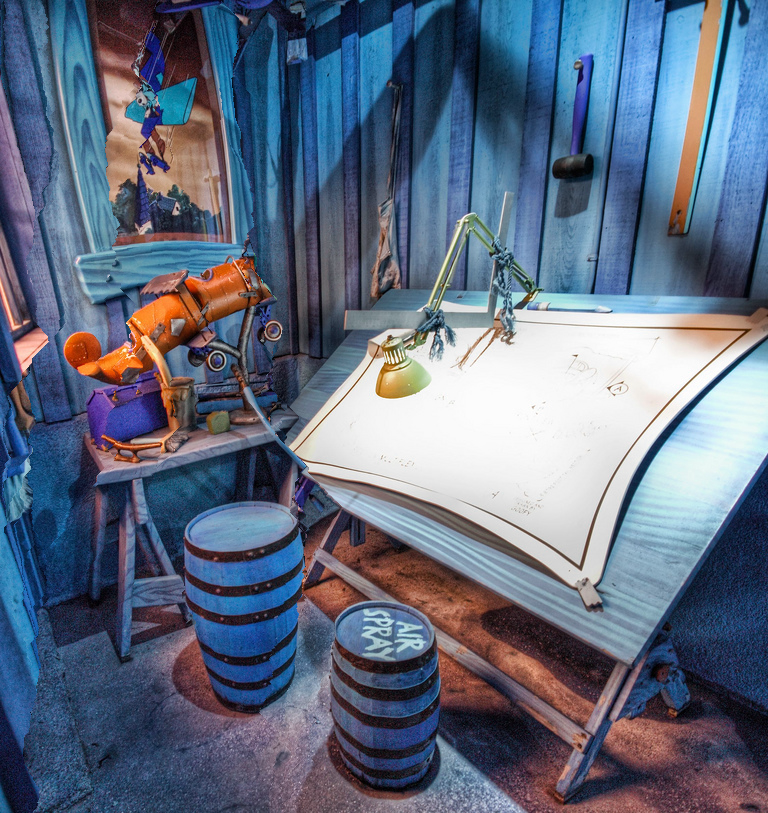
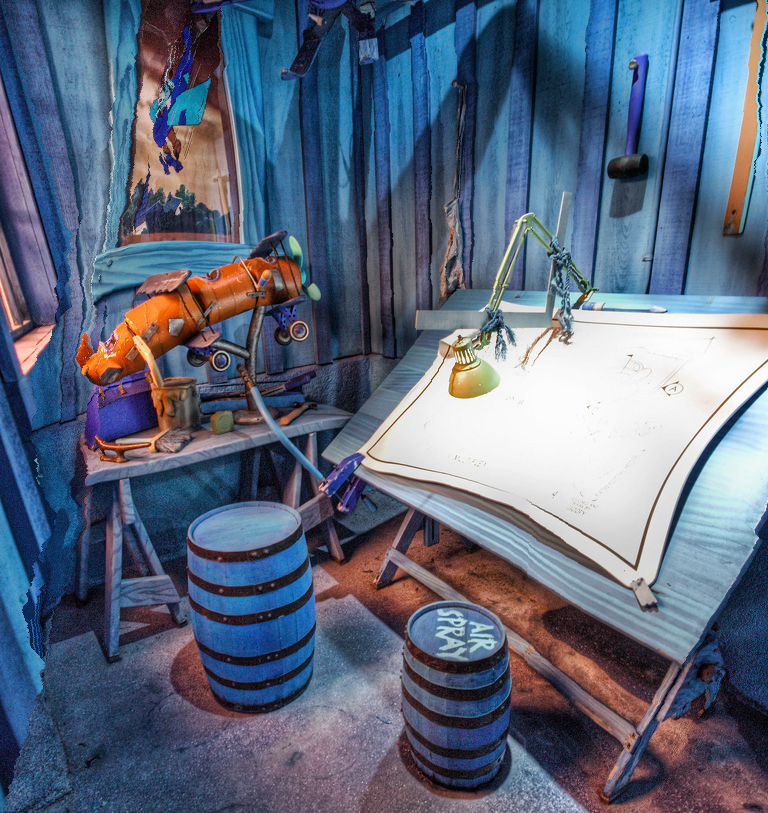
seam carving updates

diff --git a/src/processors/sc/ConnectedSCV2.py b/src/processors/sc/ConnectedSCV2.py
@@ -1,0 +1,122 @@
+import math
+
+import numpy as np
+
+from config.decorators import Decorators
+from config.helper import Helper
+from config.plotter import Plotter
+from src.processors.sc.SeamCarving import SeamCarving
+
+
+class ConnectedSCV2(SeamCarving):
+    def __init__(self, img, energy, ratio, color=False):
+        super(ConnectedSCV2, self).__init__(img, energy, ratio)
+
+        self._color = color
+
+        self._matrix = np.zeros((self._height, self._width))
+
+    @Decorators.Loggers.log_class_method_time
+    def __accumulate(self):
+        index = -1
+
+        matrix = self._matrix
+        shift_map = np.zeros((self._height, self._width))
+
+        start = 0
+        end = len(matrix[0]) - 1
+
+        def get_min(j, k, start, end):
+            l = max(k - 1, start)
+            r = min(k + 1, end)
+
+            left = matrix[j][l]
+            mid = matrix[j][k]
+            right = matrix[j][r]
+
+            if left <= mid and left <= right:
+                return left, l
+            elif mid <= left and mid <= right:
+                return mid, k
+
+            return right, r
+
+        for j in range(0, self._height):
+            for i in range(0, self._width):
+                v = 0
+                least_index = i
+                if j - 1 > 0:
+                    v, least_index = get_min(j - 1, i, start, end)
+
+                    # v = matrix[j - 1][least_index]
+
+                v = v + self._energy[j, i]
+
+                if v > 0:
+                    index = j
+
+                matrix[j][i] = v
+                shift_map[j][i] = int(least_index - i)
+
+        return matrix, shift_map, index
+
+    @Decorators.Loggers.log_class_method_time
+    def _main(self, *args, **kwargs):
+        image = self._img
+
+        height, width, z = image.shape
+
+        w = int(width - width * self._ratio)
+
+        new_image = []
+
+        matrix, shift_map, index = self.__accumulate()
+
+        # print(matrix)
+        # print(shift_map)
+
+        # Plotter.image(matrix)
+
+        for k in range(w):
+            new_image = []
+            new_matrix = []
+
+            row = matrix[index]
+            i = np.argmin(row)
+
+            for j in range(height - 1, -1, -1):
+                start = max(0, i - 1)
+                # end = min(i + 2, len(matrix[j - 1]) - 1)
+                end = len(matrix[j - 1]) - 1
+
+                # i = np.argmin(
+                #     matrix[j - 1][
+                #         start: end
+                #     ]
+                # ) + start
+
+                if self._color:
+                    image[j][i] = [0, 255, 0]
+                    new_image.append(
+                        image[j]
+                    )
+
+                    matrix[j][i] = math.inf
+                    new_matrix.append(
+                        matrix[j]
+                    )
+                else:
+                    new_image.append(
+                        np.delete(image[j], i, axis=0)
+                    )
+
+                    new_matrix.append(
+                        np.delete(matrix[j], i, axis=0)
+                    )
+
+                i = min(int(i + shift_map[j][i]), end)
+
+            image = new_image
+            matrix = new_matrix
+
+        return np.array(new_image)

diff --git a/src/processors/sc/DisconnectedSCV2.py b/src/processors/sc/DisconnectedSCV2.py
@@ -1,0 +1,97 @@
+import math
+
+import numpy as np
+
+from config.decorators import Decorators
+from src.processors.sc.SeamCarving import SeamCarving
+
+
+class DisconnectedSCV2(SeamCarving):
+    def __init__(self, img, energy, ratio):
+        super(DisconnectedSCV2, self).__init__(img, energy, ratio)
+
+    @Decorators.Loggers.log_class_method_time
+    def _main(self, *args, **kwargs):
+        image = self._img
+        energy = self._energy
+
+        height, width, z = image.shape
+
+        # w = int(width - width * self._ratio)
+        w = 1
+
+        columns = 12
+
+        dw = width // columns
+
+        new_image = []
+
+        indices = []
+        values = []
+
+        for j in range(0, height):
+            sorted_list = sorted(enumerate(energy[j]), key=lambda x: x[1])[:2]
+
+            if j == 0:
+                indices = [index for index, value in sorted_list]
+                # values = [value for index, value in sorted_list]
+                continue
+
+            temp_indices = []
+            # temp_values = []
+
+            for k in indices:
+                # idx = k // dw
+                #
+                # start = max(0, k - dw // 2)
+                # end = min(width - 1, k + dw // 2)
+
+                # print(start, end)
+
+                start = 0
+                end = len(energy[j]) - 1
+
+                least_index = 0
+
+                least_value = min(
+                    energy[j][max(k - 1, start)],
+                    energy[j][k],
+                    energy[j][min(k + 1, end)]
+                )
+
+                if least_value == energy[j][max(k - 1, start)]:
+                    least_index = max(k - 1, start)
+                elif least_value == energy[j][k]:
+                    least_index = k
+                elif least_value == energy[j][min(k + 1, end)]:
+                    least_index = min(k + 1, end)
+
+                if least_index in temp_indices:
+                    print(k, indices)
+                    print(least_index, temp_indices)
+                    raise Exception("Duplicate")
+
+                temp_indices.append(least_index)
+
+                energy[j][least_index] = math.inf
+                # temp_values.append(least_value)
+
+                # dv = np.abs(v - val)
+                # if dv > 100:
+                #     pass
+
+            indices = temp_indices
+            # values = temp_values
+
+            # row = np.delete(image[j], indices, axis=0)
+
+            for i in indices:
+                image[j][i] = [0, 255, 0]
+
+            row = image[j]
+
+            new_image.append(
+                row
+            )
+
+        return np.array(new_image)

diff --git a/src/processors/sc/ConnectedSC.py b/src/processors/sc/ConnectedSC.py
@@ -24,13 +24,7 @@ class ConnectedSC(SeamCarving):
 
         matrix = np.zeros((height, width))
 
-        # max_e = np.max(energy)
-        # min_e = np.min(energy)
-
-        # print(energy)
-
         new_image = []
-        new_energy = []
 
         index = -1
         for j in range(0, height):
@@ -38,10 +32,8 @@ class ConnectedSC(SeamCarving):
                 v = min(
                     matrix[j - 1][max(i - 1, 0)],
                     matrix[j - 1][i],
-                    matrix[j - 1][min(i + 1, len(matrix) - 1)]
+                    matrix[j - 1][min(i + 1, len(matrix[0]) - 1)]
                 ) if j - 1 > 0 else 0
-
-                # v = v + Helper.Math.scale(energy[j, i], start=min_e, end=max_e)
 
                 v = v + energy[j, i]
 
@@ -50,11 +42,7 @@ class ConnectedSC(SeamCarving):
 
                 matrix[j][i] = v
 
-        temp = matrix
-
-        # print(matrix)
-
-        # Plotter.image(temp)
+        # Plotter.image(matrix)
 
         for k in range(w):
             new_image = []
@@ -62,38 +50,38 @@ class ConnectedSC(SeamCarving):
             new_matrix = []
 
             row = matrix[index]
-            j = np.argmin(row)
+            i = np.argmin(row)
 
             # if np.max(row) == 0:
             #     index -= 1
 
-            for i in range(height - 1, -1, -1):
-                start = max(0, j - 1)
-                end = min(j + 2, len(matrix[i - 1]) - 1)
+            for j in range(height - 1, -1, -1):
+                start = max(0, i - 1)
+                end = min(i + 2, len(matrix[j - 1]) - 1)
 
-                j = np.argmin(
-                    matrix[i - 1][
+                i = np.argmin(
+                    matrix[j - 1][
                         start: end
                     ]
                 ) + start
 
                 if self._color:
-                    image[i][j] = [0, 255, 0]
+                    image[j][i] = [0, 255, 0]
                     new_image.append(
-                        image[i]
+                        image[j]
                     )
 
-                    matrix[i][j] = math.inf
+                    matrix[j][i] = math.inf
                     new_matrix.append(
-                        matrix[i]
+                        matrix[j]
                     )
                 else:
                     new_image.append(
-                        np.delete(image[i], j, axis=0)
+                        np.delete(image[j], i, axis=0)
                     )
 
                     new_matrix.append(
-                        np.delete(matrix[i], j, axis=0)
+                        np.delete(matrix[j], i, axis=0)
                     )
 
             image = new_image

diff --git a/tests/test_image_util.py b/tests/test_image_util.py
@@ -1,12 +1,14 @@
 from config.constants import DataPath
 from src.processors.SobelFilter import SobelFilter
 from src.processors.sc.ConnectedSC import ConnectedSC
+from src.processors.sc.ConnectedSCV2 import ConnectedSCV2
 from src.processors.sc.DisconnectedSC import DisconnectedSC
+from src.processors.sc.DisconnectedSCV2 import DisconnectedSCV2
 from src.processors.sc.ThreadedSC import ThreadedSC
 from utils.Image import Image
 from config.plotter import Plotter
 
-name = "img_3.png"
+name = "img_5.png"
 
 PATH = f"{DataPath.INPUT_PATH.value}/{name}"
 
@@ -24,8 +26,10 @@ energy = SobelFilter(img_gray)().image()
 ratio = 0.75
 
 # img_new = ThreadedSC(img_new, energy, ratio)()
-img_new = ConnectedSC(img_new, energy, ratio)()
+# img_new = ConnectedSC(img_new, energy, ratio, color=False)()
+img_new = ConnectedSCV2(img_new, energy, ratio, color=False)()
 # img_new = DisconnectedSC(img_new, energy, ratio)()
+# img_new = DisconnectedSCV2(img_new, energy, ratio)()
 
 Image.save(img_new, name)
 

diff --git a/src/processors/SobelFilter.py b/src/processors/SobelFilter.py
@@ -27,7 +27,7 @@ class SobelFilter(Processor):
 
         self._image = np.sqrt(gx ** 2 + gy ** 2)
 
-        # maxi = np.max(self._image)
-        # mini = np.min(self._image)
-        #
-        # self._image = np.diff(self._image, mini) / (maxi - mini)
+        maxi = np.max(self._image)
+        mini = np.min(self._image)
+
+        self._image = np.diff(self._image, mini) / (maxi - mini)

diff --git a/src/processors/sc/SeamCarving.py b/src/processors/sc/SeamCarving.py
@@ -10,6 +10,8 @@ class SeamCarving(Algorithm):
         self._energy = energy
         self._ratio = ratio
 
+        self._height, self._width, self._z = self._img.shape
+
     @abstractmethod
     def _main(self, *args, **kwargs):
         pass
